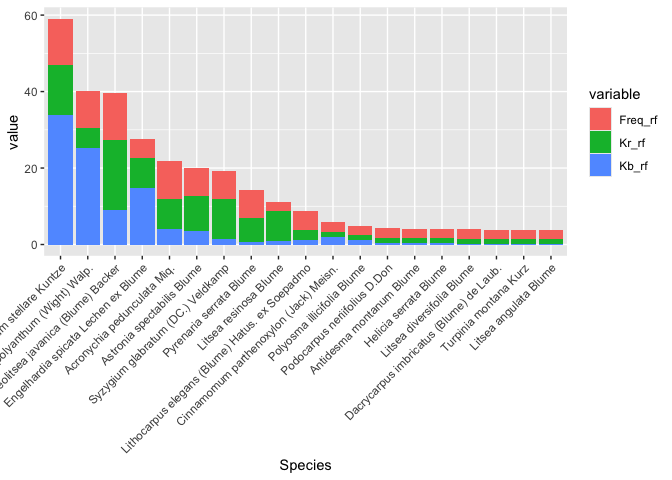
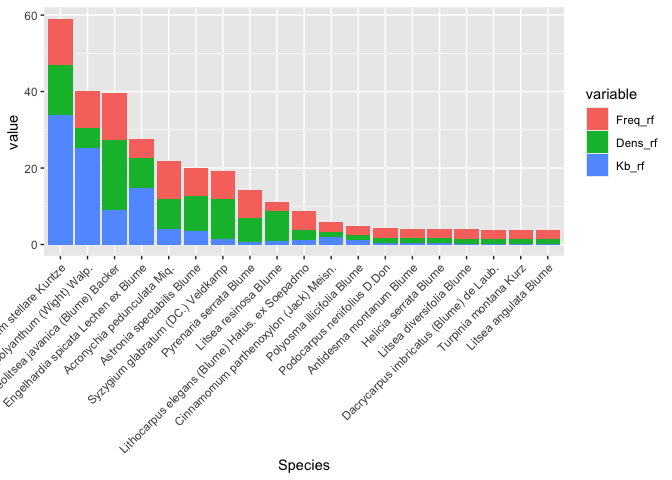
update readme

diff --git a/README.md b/README.md
@@ -34,27 +34,27 @@ value index of tree species at a sampling plot:
 library(ecofor)
 IVI(Papandayan)
 #> # A tibble: 19 × 5
-#>    Species                                        Freq_rf Kr_rf   Kb_rf   IVI
-#>    <fct>                                            <dbl> <dbl>   <dbl> <dbl>
-#>  1 Distylium stellare Kuntze                        12.2  13.0  33.9    59.1 
-#>  2 Syzygium polyanthum (Wight) Walp.                 9.76  5.19 25.2    40.1 
-#>  3 Neolitsea javanica (Blume) Backer                12.2  18.2   9.13   39.5 
-#>  4 Engelhardia spicata Lechen ex Blume               4.88  7.79 14.9    27.5 
-#>  5 Acronychia pedunculata Miq.                       9.76  7.79  4.17   21.7 
-#>  6 Astronia spectabilis Blume                        7.32  9.09  3.49   19.9 
-#>  7 Syzygium glabratum (DC.) Veldkamp                 7.32 10.4   1.43   19.1 
-#>  8 Pyrenaria serrata Blume                           7.32  6.49  0.552  14.4 
-#>  9 Litsea resinosa BIume                             2.44  7.79  1.01   11.2 
-#> 10 Lithocarpus elegans (Blume) Hatus. ex Soepadmo    4.88  2.60  1.31    8.78
-#> 11 Cinnamomum parthenoxylon (Jack) Meisn.            2.44  1.30  2.08    5.82
-#> 12 Polyosma illicifolia Blume                        2.44  1.30  1.19    4.92
-#> 13 Podocarpus neriifolius D.Don                      2.44  1.30  0.462   4.20
-#> 14 Antidesma montanum Blume                          2.44  1.30  0.346   4.08
-#> 15 Helicia serrata Blume                             2.44  1.30  0.280   4.02
-#> 16 Litsea diversifolia Blume                         2.44  1.30  0.229   3.97
-#> 17 Dacrycarpus imbricatus (Blume) de Laub.           2.44  1.30  0.182   3.92
-#> 18 Turpinia montana Kurz                             2.44  1.30  0.152   3.89
-#> 19 Litsea angulata Blume                             2.44  1.30  0.0628  3.80
+#>    Species                                        Freq_rf Dens_rf   Kb_rf   IVI
+#>    <fct>                                            <dbl>   <dbl>   <dbl> <dbl>
+#>  1 Distylium stellare Kuntze                        12.2    13.0  33.9    59.1 
+#>  2 Syzygium polyanthum (Wight) Walp.                 9.76    5.19 25.2    40.1 
+#>  3 Neolitsea javanica (Blume) Backer                12.2    18.2   9.13   39.5 
+#>  4 Engelhardia spicata Lechen ex Blume               4.88    7.79 14.9    27.5 
+#>  5 Acronychia pedunculata Miq.                       9.76    7.79  4.17   21.7 
+#>  6 Astronia spectabilis Blume                        7.32    9.09  3.49   19.9 
+#>  7 Syzygium glabratum (DC.) Veldkamp                 7.32   10.4   1.43   19.1 
+#>  8 Pyrenaria serrata Blume                           7.32    6.49  0.552  14.4 
+#>  9 Litsea resinosa BIume                             2.44    7.79  1.01   11.2 
+#> 10 Lithocarpus elegans (Blume) Hatus. ex Soepadmo    4.88    2.60  1.31    8.78
+#> 11 Cinnamomum parthenoxylon (Jack) Meisn.            2.44    1.30  2.08    5.82
+#> 12 Polyosma illicifolia Blume                        2.44    1.30  1.19    4.92
+#> 13 Podocarpus neriifolius D.Don                      2.44    1.30  0.462   4.20
+#> 14 Antidesma montanum Blume                          2.44    1.30  0.346   4.08
+#> 15 Helicia serrata Blume                             2.44    1.30  0.280   4.02
+#> 16 Litsea diversifolia Blume                         2.44    1.30  0.229   3.97
+#> 17 Dacrycarpus imbricatus (Blume) de Laub.           2.44    1.30  0.182   3.92
+#> 18 Turpinia montana Kurz                             2.44    1.30  0.152   3.89
+#> 19 Litsea angulata Blume                             2.44    1.30  0.0628  3.80
 ## basic example code
 ```
 
@@ -64,28 +64,6 @@ importance value index, for example:
 ``` r
 library(ecofor)
 df <- IVI(Papandayan)
-#> # A tibble: 19 × 5
-#>    Species                                        Freq_rf Kr_rf   Kb_rf   IVI
-#>    <fct>                                            <dbl> <dbl>   <dbl> <dbl>
-#>  1 Distylium stellare Kuntze                        12.2  13.0  33.9    59.1 
-#>  2 Syzygium polyanthum (Wight) Walp.                 9.76  5.19 25.2    40.1 
-#>  3 Neolitsea javanica (Blume) Backer                12.2  18.2   9.13   39.5 
-#>  4 Engelhardia spicata Lechen ex Blume               4.88  7.79 14.9    27.5 
-#>  5 Acronychia pedunculata Miq.                       9.76  7.79  4.17   21.7 
-#>  6 Astronia spectabilis Blume                        7.32  9.09  3.49   19.9 
-#>  7 Syzygium glabratum (DC.) Veldkamp                 7.32 10.4   1.43   19.1 
-#>  8 Pyrenaria serrata Blume                           7.32  6.49  0.552  14.4 
-#>  9 Litsea resinosa BIume                             2.44  7.79  1.01   11.2 
-#> 10 Lithocarpus elegans (Blume) Hatus. ex Soepadmo    4.88  2.60  1.31    8.78
-#> 11 Cinnamomum parthenoxylon (Jack) Meisn.            2.44  1.30  2.08    5.82
-#> 12 Polyosma illicifolia Blume                        2.44  1.30  1.19    4.92
-#> 13 Podocarpus neriifolius D.Don                      2.44  1.30  0.462   4.20
-#> 14 Antidesma montanum Blume                          2.44  1.30  0.346   4.08
-#> 15 Helicia serrata Blume                             2.44  1.30  0.280   4.02
-#> 16 Litsea diversifolia Blume                         2.44  1.30  0.229   3.97
-#> 17 Dacrycarpus imbricatus (Blume) de Laub.           2.44  1.30  0.182   3.92
-#> 18 Turpinia montana Kurz                             2.44  1.30  0.152   3.89
-#> 19 Litsea angulata Blume                             2.44  1.30  0.0628  3.80
 library(ggplot2)
 ggplot(data = df, aes(reorder(Species, -IVI),IVI)) +
   geom_bar(stat = "identity") +
@@ -101,28 +79,6 @@ or you can also display the component with this
 library(ecofor)
 library(data.table)
 df <- melt(IVI(Papandayan)) # melt data
-#> # A tibble: 19 × 5
-#>    Species                                        Freq_rf Kr_rf   Kb_rf   IVI
-#>    <fct>                                            <dbl> <dbl>   <dbl> <dbl>
-#>  1 Distylium stellare Kuntze                        12.2  13.0  33.9    59.1 
-#>  2 Syzygium polyanthum (Wight) Walp.                 9.76  5.19 25.2    40.1 
-#>  3 Neolitsea javanica (Blume) Backer                12.2  18.2   9.13   39.5 
-#>  4 Engelhardia spicata Lechen ex Blume               4.88  7.79 14.9    27.5 
-#>  5 Acronychia pedunculata Miq.                       9.76  7.79  4.17   21.7 
-#>  6 Astronia spectabilis Blume                        7.32  9.09  3.49   19.9 
-#>  7 Syzygium glabratum (DC.) Veldkamp                 7.32 10.4   1.43   19.1 
-#>  8 Pyrenaria serrata Blume                           7.32  6.49  0.552  14.4 
-#>  9 Litsea resinosa BIume                             2.44  7.79  1.01   11.2 
-#> 10 Lithocarpus elegans (Blume) Hatus. ex Soepadmo    4.88  2.60  1.31    8.78
-#> 11 Cinnamomum parthenoxylon (Jack) Meisn.            2.44  1.30  2.08    5.82
-#> 12 Polyosma illicifolia Blume                        2.44  1.30  1.19    4.92
-#> 13 Podocarpus neriifolius D.Don                      2.44  1.30  0.462   4.20
-#> 14 Antidesma montanum Blume                          2.44  1.30  0.346   4.08
-#> 15 Helicia serrata Blume                             2.44  1.30  0.280   4.02
-#> 16 Litsea diversifolia Blume                         2.44  1.30  0.229   3.97
-#> 17 Dacrycarpus imbricatus (Blume) de Laub.           2.44  1.30  0.182   3.92
-#> 18 Turpinia montana Kurz                             2.44  1.30  0.152   3.89
-#> 19 Litsea angulata Blume                             2.44  1.30  0.0628  3.80
 #> Warning: The melt generic in data.table has been passed a tbl_df and will
 #> attempt to redirect to the relevant reshape2 method; please note that reshape2
 #> is superseded and is no longer actively developed, and this redirection is now
